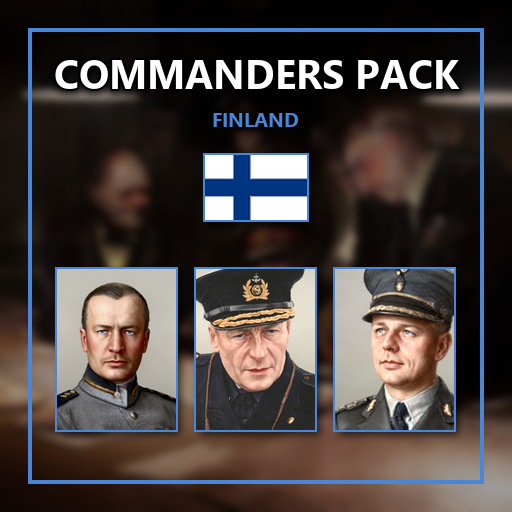
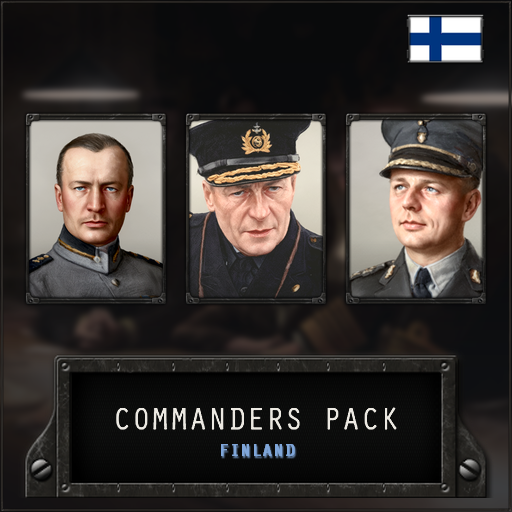
feat(thumbnail): render pack thumbnails with the Manager's New-HoiThumbnail.ps1
The Finland thumbnail was made with the external generator and copied in
from scratch/thumbnail. Pack thumbnails now come from the Manager's one
template: COMMANDERS PACK in the game's loading-screen plate with the
country under it, the flag at the top right and the pack's portraits in
the game's leader frames, over the loading screen of the spec.

- data/thumbnail.json becomes assets/thumbnail.json: the background
  (also read by the gallery, LeaderPacks.Showcase.ps1) and each pack's
  portrait paths, which the release skill writes.
- The release skill previews, shows the owner and -Applies; a pack with
  fewer than 2 portraits listed still stops the release.
- -NewPack renders the new pack's thumbnail through the Manager and falls
  back to assets/thumbnail_master.png when the Manager is not found.
- The hook refuses a copy into or a hand edit of packs/<pack>/thumbnail.png;
  the allow list names New-HoiThumbnail.ps1.
- AGENTS.md widens the no-vanilla-image exception for the thumbnail to the
  interface art and fonts the template draws (owner, 2026-11-02);
  lp-reviewer, source-format and Contributing follow.
- The Finland thumbnail is re-rendered.

Tests: tests\Run-Tests.ps1 -Changed: 245 Passed, 1 Failed (pack france,
another session's unfinished pack, fails -Check), then the Hooks suite
after the last hook change: 79 Passed, 0 Failed. -Check: pack finland 0
errors.

diff --git a/.agents/skills/leader-pack-release/SKILL.md b/.agents/skills/leader-pack-release/SKILL.md
@@ -21,16 +21,14 @@ Each pack is its own Workshop item. Follow the shared `hoi4-mod-release` skill, 
 5. `Test-HoiKnowledge.ps1 -Repo leader-packs -Detailed` (the `hoi4-modding-knowledge` skill): the sweep queue is empty.
 
 ## 2. Thumbnail
-A pack whose `packs/<pack>/thumbnail.png` still has the hash of `assets/thumbnail_master.png` (`Get-FileHash`) gets its own thumbnail before its first upload; with fewer than 2 chosen portraits the release stops and the owner is told. A pack that has one keeps it unless the owner asks, or a leader it shows has had a new portrait picked since: a recorded `source/<pack>/portraits/<key>.png` whose last commit (`git log -1 --format=%cI -- <file>`) is newer than that of `packs/<pack>/thumbnail.png`.
+A pack with fewer than 2 portrait paths under `packs.<pack>.portraits` of `assets/thumbnail.json` (its `-NewPack` thumbnail shows the flag only, or the plain `assets/thumbnail_master.png` when the Manager was not found) gets its own thumbnail before its first upload; with fewer than 2 chosen portraits the release stops and the owner is told. A pack that has its portraits keeps its thumbnail unless the owner asks, or a leader it shows has had a new portrait picked since: a recorded `source/<pack>/portraits/<key>.png` whose last commit (`git log -1 --format=%cI -- <file>`) is newer than that of `packs/<pack>/thumbnail.png`.
 
-Every pack's thumbnail has the same layout: the title and the country at the top, the flag below them, a row of 2 or 3 of the pack's portraits below the flag, over the one shared background of `data/thumbnail.json`.
+Every pack's thumbnail is drawn by the Manager's `New-HoiThumbnail.ps1` (skill `hoi4-workshop-showcase`) in the one Commanders Pack layout: `COMMANDERS PACK` in the plate at the bottom with the country under it, the flag at the top right, the pack's portraits in a row, over the shared loading screen of `assets/thumbnail.json`. The tool fixes the layout, the colours and the flag; a pack chooses only its portraits.
 
-1. Use the `mod-thumbnail-generator` skill, title `COMMANDERS PACK`, subtitle the country in capitals, with the country's flag (`--flag-tag <TAG>`) below the subtitle, `--text-pos top`, and `--game-dir "<game root>"`, the game root the one `Get-HoiGameInfo` prints (`hoi4-vanilla-lookup`).
-2. The portraits: the keys under `packs.<pack>.portraits` of `data/thumbnail.json`. A pack without them: propose its 3 best-known leaders with a chosen portrait (2 when it has only 2), in the order they are to stand left to right, and on the owner's word, which may swap them, write the keys there. Pass their `source/<pack>/portraits/<key>.png` to `--portraits`, comma-separated, in that order.
-3. The background: `--bg-image "<game root>\<background>"`, with `--bg-crop <crop>`, `--bg-blur <blur>` and `--scrim <scrim>`, all from `data/thumbnail.json`. This loading screen and the flag are the only vanilla images a pack may ship, and only inside its `thumbnail.png`. The one other place they appear is the gallery images of section 2b, which stay git-ignored under `artifacts/`. Never copy, convert or save either anywhere else.
-4. The flag and the colours as Event Packs does it: the flag variant is the ruling party's ideology that `Get-HoiCountryHistory -Tag <TAG> -Section politics` prints (`hoi4-vanilla-lookup`); the main colour is the colour the flag is known by, read from the flag file the generator names as `overlay_source`, never white, and lightened until it reads clearly on the dark background (Finland's `#003580` becomes `#4A86D8`): the generator does not check contrast over artwork; the text colour is white.
-5. Write to `--out-dirs "scratch\thumbnail\<pack>"`; the JSON must say `"status": "success"`, `"workshop_limit_exceeded": false` and no `warnings`, and `portrait_sources` must list the recorded portraits. Show the owner the image; on their word, copy it with `Copy-Item scratch\thumbnail\<pack>\thumbnail.png packs\<pack>\thumbnail.png` as a statement of its own (a hook refuses any other shell write into `packs/`).
-6. `powershell -File .\build.ps1 -ValidateOnly` ends `Validation succeeded.`, then commit the thumbnail, and `data/thumbnail.json` when its keys are new, on the owner's word.
+1. The portraits: the paths under `packs.<pack>.portraits` of `assets/thumbnail.json`. A pack without them: propose its 3 best-known leaders with a chosen portrait (2 when it has only 2), in the order they are to stand left to right, and on the owner's word, which may swap them, write them there as `source/<pack>/portraits/<key>.png`, in that order.
+2. Preview: `powershell -NoProfile -File "<Manager root>\Scripts\Showcase\New-HoiThumbnail.ps1" "Leader Packs" -Pack <pack>`. Its line ends with `new`, `changed` or `unchanged` against the committed file and the preview's path under the Manager's `Artifacts\thumbnails\leader-packs\<pack>\`; a `Warning:` line is fixed in the data, not accepted. Look at the preview with the Read tool, then show it to the owner.
+3. On the owner's word, run the same command with `-Apply`: it writes `packs/<pack>/thumbnail.png`. The loading screen, the flag and the game's frames, plates and fonts it draws are read from the game install at render time and ship only inside that file. Never copy, convert or save any of them anywhere else; the gallery images of section 2b stay git-ignored under `artifacts/`.
+4. `powershell -File .\build.ps1 -ValidateOnly` ends `Validation succeeded.`, then commit the thumbnail, and `assets/thumbnail.json` when its portraits are new, on the owner's word.
 
 ## 2b. Gallery images
 1. Every leader the release adds has card lines in `source/<pack>/showcase.json` (`docs/source-format.md`). A leader without them: propose 3 or 4 lines and the years from his fact-sheet section, and write them only on the owner's word.

diff --git a/.claude/skills/leader-pack-release/SKILL.md b/.claude/skills/leader-pack-release/SKILL.md
@@ -21,16 +21,14 @@ Each pack is its own Workshop item. Follow the shared `hoi4-mod-release` skill, 
 5. `Test-HoiKnowledge.ps1 -Repo leader-packs -Detailed` (the `hoi4-modding-knowledge` skill): the sweep queue is empty.
 
 ## 2. Thumbnail
-A pack whose `packs/<pack>/thumbnail.png` still has the hash of `assets/thumbnail_master.png` (`Get-FileHash`) gets its own thumbnail before its first upload; with fewer than 2 chosen portraits the release stops and the owner is told. A pack that has one keeps it unless the owner asks, or a leader it shows has had a new portrait picked since: a recorded `source/<pack>/portraits/<key>.png` whose last commit (`git log -1 --format=%cI -- <file>`) is newer than that of `packs/<pack>/thumbnail.png`.
+A pack with fewer than 2 portrait paths under `packs.<pack>.portraits` of `assets/thumbnail.json` (its `-NewPack` thumbnail shows the flag only, or the plain `assets/thumbnail_master.png` when the Manager was not found) gets its own thumbnail before its first upload; with fewer than 2 chosen portraits the release stops and the owner is told. A pack that has its portraits keeps its thumbnail unless the owner asks, or a leader it shows has had a new portrait picked since: a recorded `source/<pack>/portraits/<key>.png` whose last commit (`git log -1 --format=%cI -- <file>`) is newer than that of `packs/<pack>/thumbnail.png`.
 
-Every pack's thumbnail has the same layout: the title and the country at the top, the flag below them, a row of 2 or 3 of the pack's portraits below the flag, over the one shared background of `data/thumbnail.json`.
+Every pack's thumbnail is drawn by the Manager's `New-HoiThumbnail.ps1` (skill `hoi4-workshop-showcase`) in the one Commanders Pack layout: `COMMANDERS PACK` in the plate at the bottom with the country under it, the flag at the top right, the pack's portraits in a row, over the shared loading screen of `assets/thumbnail.json`. The tool fixes the layout, the colours and the flag; a pack chooses only its portraits.
 
-1. Use the `mod-thumbnail-generator` skill, title `COMMANDERS PACK`, subtitle the country in capitals, with the country's flag (`--flag-tag <TAG>`) below the subtitle, `--text-pos top`, and `--game-dir "<game root>"`, the game root the one `Get-HoiGameInfo` prints (`hoi4-vanilla-lookup`).
-2. The portraits: the keys under `packs.<pack>.portraits` of `data/thumbnail.json`. A pack without them: propose its 3 best-known leaders with a chosen portrait (2 when it has only 2), in the order they are to stand left to right, and on the owner's word, which may swap them, write the keys there. Pass their `source/<pack>/portraits/<key>.png` to `--portraits`, comma-separated, in that order.
-3. The background: `--bg-image "<game root>\<background>"`, with `--bg-crop <crop>`, `--bg-blur <blur>` and `--scrim <scrim>`, all from `data/thumbnail.json`. This loading screen and the flag are the only vanilla images a pack may ship, and only inside its `thumbnail.png`. The one other place they appear is the gallery images of section 2b, which stay git-ignored under `artifacts/`. Never copy, convert or save either anywhere else.
-4. The flag and the colours as Event Packs does it: the flag variant is the ruling party's ideology that `Get-HoiCountryHistory -Tag <TAG> -Section politics` prints (`hoi4-vanilla-lookup`); the main colour is the colour the flag is known by, read from the flag file the generator names as `overlay_source`, never white, and lightened until it reads clearly on the dark background (Finland's `#003580` becomes `#4A86D8`): the generator does not check contrast over artwork; the text colour is white.
-5. Write to `--out-dirs "scratch\thumbnail\<pack>"`; the JSON must say `"status": "success"`, `"workshop_limit_exceeded": false` and no `warnings`, and `portrait_sources` must list the recorded portraits. Show the owner the image; on their word, copy it with `Copy-Item scratch\thumbnail\<pack>\thumbnail.png packs\<pack>\thumbnail.png` as a statement of its own (a hook refuses any other shell write into `packs/`).
-6. `powershell -File .\build.ps1 -ValidateOnly` ends `Validation succeeded.`, then commit the thumbnail, and `data/thumbnail.json` when its keys are new, on the owner's word.
+1. The portraits: the paths under `packs.<pack>.portraits` of `assets/thumbnail.json`. A pack without them: propose its 3 best-known leaders with a chosen portrait (2 when it has only 2), in the order they are to stand left to right, and on the owner's word, which may swap them, write them there as `source/<pack>/portraits/<key>.png`, in that order.
+2. Preview: `powershell -NoProfile -File "<Manager root>\Scripts\Showcase\New-HoiThumbnail.ps1" "Leader Packs" -Pack <pack>`. Its line ends with `new`, `changed` or `unchanged` against the committed file and the preview's path under the Manager's `Artifacts\thumbnails\leader-packs\<pack>\`; a `Warning:` line is fixed in the data, not accepted. Look at the preview with the Read tool, then show it to the owner.
+3. On the owner's word, run the same command with `-Apply`: it writes `packs/<pack>/thumbnail.png`. The loading screen, the flag and the game's frames, plates and fonts it draws are read from the game install at render time and ship only inside that file. Never copy, convert or save any of them anywhere else; the gallery images of section 2b stay git-ignored under `artifacts/`.
+4. `powershell -File .\build.ps1 -ValidateOnly` ends `Validation succeeded.`, then commit the thumbnail, and `assets/thumbnail.json` when its portraits are new, on the owner's word.
 
 ## 2b. Gallery images
 1. Every leader the release adds has card lines in `source/<pack>/showcase.json` (`docs/source-format.md`). A leader without them: propose 3 or 4 lines and the years from his fact-sheet section, and write them only on the owner's word.

diff --git a/AGENTS.md b/AGENTS.md
@@ -9,14 +9,14 @@ Shared rules for every mod in this tree (file encodings, build commands, engine 
 - The historical researcher's dossiers stay in `research/<pack>/`, every candidate with its sourced facts, used or not: a pack's next leaders start from them. Never delete or trim one.
 
 ## Mod invariants
-- `packs/<pack>/` changes only through `build.ps1 -Generate` and `-ConvertPortraits`, its `thumbnail.png` only through the release skill's thumbnail copy; `photos.json` only through `-FetchPhoto`; `portraits.json` and `portraits/*.png` only through `-MakePortraits` and `-ApplyPortraitReview`; the snapshots under `data/<pack>/` only through `-RefreshGameData`; `data/portrait-card.json` and `data/thumbnail.json` only on the owner's word. A hook refuses hand edits of all but `data/thumbnail.json`, whose portrait keys the release skill writes.
+- `packs/<pack>/` changes only through `build.ps1 -Generate` and `-ConvertPortraits`, its `thumbnail.png` only through the Manager's `New-HoiThumbnail.ps1 -Apply` in the release skill; `photos.json` only through `-FetchPhoto`; `portraits.json` and `portraits/*.png` only through `-MakePortraits` and `-ApplyPortraitReview`; the snapshots under `data/<pack>/` only through `-RefreshGameData`; `data/portrait-card.json` and `assets/thumbnail.json` only on the owner's word. A hook refuses hand edits of all but `assets/thumbnail.json`, whose portrait paths the release skill writes.
 - The prefix `lp_<tag>`, every character id `lp_<tag>_<key>` and every sprite name never change after a release: saves made with a pack refer to them [CHR-016]. A leader who must go becomes `skip`.
 - A pack works only in a new game: it recruits from `on_startup` [SCR-077] [CHR-003]. One `error.log` warning per recruitment is expected [CHR-014].
 - Nobody appears twice: each leader is `new`, `addRole` or `skip`, decided against the committed snapshot of vanilla and Road to 56; `sameAs` holds every id the person has [RT56-011] [SCR-035]. `addRole` keeps the advisor role and its small card [CHR-013].
 - Stats stay within `data/stat-bands.json` [CHR-006] [CHR-012], traits within `data/<pack>/start-traits.json`, both chosen from the fact sheet by `docs/stat-guide.md`.
 - Photos come from Wikimedia Commons, licensed public domain (with the `PD-` reason Commons gives), CC0 or CC BY, and only through `-FetchPhoto`, which decides the licence. A portrait from a CC BY photo is credited as an adaptation on the pack's generated wiki page; every Workshop description says the portraits are AI-assisted.
 - No vanilla image is ever committed, uploaded or shown on a review page: no vanilla portrait, card art or loading screen, nor anything converted from one. Two exceptions, both read from the game install when they are rendered and never kept as files of their own:
-  - a pack's Workshop thumbnail, with the loading screen `data/thumbnail.json` names and the country's flag, committed and uploaded only inside `packs/<pack>/thumbnail.png`;
+  - a pack's Workshop thumbnail, with the loading screen `assets/thumbnail.json` names, the country's flag and its frame, the game's metal window border, loading-screen tip plate, label plate and leader frame, and its Orator and Ubuntu bitmap fonts, committed and uploaded only inside `packs/<pack>/thumbnail.png`;
   - its Workshop gallery images from `-RenderShowcase`, with that loading screen, the flag, the game's interface frames, icons and bitmap fonts, written only to the git-ignored `artifacts/workshop-images/<pack>/` and uploaded by the owner on the Workshop page.
 
   Style references are read from the game install at run time and kept as numbers only.

diff --git a/.claude/agents/lp-reviewer.md b/.claude/agents/lp-reviewer.md
@@ -23,8 +23,8 @@ Never open a vanilla portrait or any image under the game's install; look only a
 5. **Facts**: every fact a stat, trait, role or mode rests on is in the leader's fact-sheet section with a source URL. Open two or three sources at random and confirm they say it.
 6. **Photos and licences**: every photo row in `source/<pack>/photos.json` came from `-FetchPhoto` (licence fields filled, fetch date set). The licence is public domain with its reason, CC0, or CC BY with a named author; nothing CC BY-SA, NC, ND or unknown. Open two Commons pages at random and confirm the licence and author. A photo outside the policy is Critical.
 7. **Portraits**: each `chosen` file exists under `source/<pack>/portraits/` with the SHA-256 `portraits.json` records. Look at the chosen PNGs only for a fault the owner could not have meant (a blank or broken file); the choice itself is the owner's.
-8. **No vanilla image**: `git status --short` and `git diff --stat` list no image other than the pack's chosen PNGs, its converted DDS files, `packs/<pack>/thumbnail.png` and `assets/`. A vanilla portrait, card or loading screen anywhere in the repository is Critical, the raw loading screen of `data/thumbnail.json` or a file converted from it included. The exceptions are drawn from the game install and never kept as files of their own:
-   - The thumbnail: `packs/<pack>/thumbnail.png` shows that loading screen as its background and the country's flag. A thumbnail with any other vanilla image in it is Critical.
+8. **No vanilla image**: `git status --short` and `git diff --stat` list no image other than the pack's chosen PNGs, its converted DDS files, `packs/<pack>/thumbnail.png` and `assets/`. A vanilla portrait, card or loading screen anywhere in the repository is Critical, the raw loading screen of `assets/thumbnail.json` or a file converted from it included. The exceptions are drawn from the game install and never kept as files of their own:
+   - The thumbnail: `packs/<pack>/thumbnail.png` may show that loading screen, the country's flag, and the game's interface frames, plates and fonts that the Manager's `New-HoiThumbnail.ps1` draws. A thumbnail with any other vanilla image in it is Critical.
    - The Workshop gallery images of `-RenderShowcase`: they may show the loading screen, the flag, and the game's frames, icons and fonts, but only under the git-ignored `artifacts/workshop-images/<pack>/`. A gallery image tracked by git is Critical.
    - **Showcase cards**: every line in `source/<pack>/showcase.json` restates a sourced bullet of that leader's fact-sheet section, and its `years` match the fact sheet. A line no bullet supports is Important. `-Check` reports the format.
 9. **Generated files** (implementation review): nothing under `packs/<pack>/` other than `descriptor.mod` and `thumbnail.png` differs from what `-Generate` and `-ConvertPortraits` write (`-Check` reports it). The wiki page `wiki/Commanders-Pack-<Country>.md` credits every photo, CC BY ones as adaptations, and `packs/<pack>/WORKSHOP_DESCRIPTION_GUIDELINES.md` says the portraits are AI-assisted.

diff --git a/docs/source-format.md b/docs/source-format.md
@@ -123,7 +123,7 @@ Optional; the owner's approved text for the pack's Workshop gallery images. It c
 - **Stats:** the skill, then the four attribute skills of the role kind, with the game's icons.
 - **Traits:** with their game names and icons, leaving out the Road to 56 counterpart traits of `data/<pack>/start-traits.json`.
 - **Credit line:** "AI-assisted repaint", with the author and licence of a CC BY photo.
-- **Background and flag:** the loading screen of `data/thumbnail.json`, and the pack's flag in its 1936 variant.
+- **Background and flag:** the loading screen of `background` in `assets/thumbnail.json`, and the pack's flag in its 1936 variant.
 
 The owner uploads the images on the Workshop page by hand ("Add/edit images & videos").
 
@@ -215,9 +215,12 @@ Written only by `-ConvertPortraits -Pack <pack> [-Force]`: for each DDS of the p
 | `data/stat-bands.json` | Hand-written: the start ranges of `skill` and the attribute skills per role kind [CHR-006] [CHR-012]. |
 | `data/workshop.json` | The wiki address and the author's other mods, shared by every pack. |
 | `data/portrait-card.json` | The small card's geometry and the face position inside its photo window [CHR-005]; read by the converter. The owner approved these values: they change only on the owner's word. |
-| `data/thumbnail.json` | The Workshop thumbnail, shared by every pack: `background` (a loading screen's path under the game root, read at render time and never copied into the repository), `crop`, `blur` and `scrim`; and per pack under `packs.<pack>.portraits` the 2 or 3 leader keys whose chosen portraits the thumbnail shows, left to right. Read by the release skill; changes only on the owner's word. |
 
 `game-characters.json`, `start-traits.json` and `portrait-card.json` are protected from hand edits by the project hook.
+
+## `assets/thumbnail.json`
+
+The spec of the Workshop thumbnails, read by the Manager's `Scripts/Showcase/New-HoiThumbnail.ps1` (skill `hoi4-workshop-showcase`, whose reference lists every field). `version` is 1. The top-level `background`, shared by every pack, is `gamePath` (a loading screen's path under the game root, read at render time and never copied into the repository), `crop`, `blur` and `scrim`; `-RenderShowcase` draws the gallery images over the same `gamePath`, `crop` and `blur`. Per pack, `packs.<pack>.portraits` lists up to 4 chosen portraits as `source/<pack>/portraits/<key>.png`, left to right; the release skill writes them on the owner's word. The title, the country, the flag (the pack's `tag` in its 1936 variant), the layout and the colours come from the tool. The file changes only on the owner's word.
 
 ## Generated files
 

diff --git a/wiki/Contributing.md b/wiki/Contributing.md
@@ -1,6 +1,6 @@
 # Contributing to Leader Packs
 
-The packs are built from the sources in the repository by `build.ps1`; nothing under `packs/<pack>/` except `descriptor.mod` and `thumbnail.png` is written by hand. `docs/source-format.md` describes the source files and every switch.
+The packs are built from the sources in the repository by `build.ps1`; nothing under `packs/<pack>/` except `descriptor.mod` is written by hand, and its `thumbnail.png` is rendered from `assets/thumbnail.json` by the Modding Manager's `New-HoiThumbnail.ps1`. `docs/source-format.md` describes the source files and every switch.
 
 ## Development Workflow
 1. Clone the repository.
